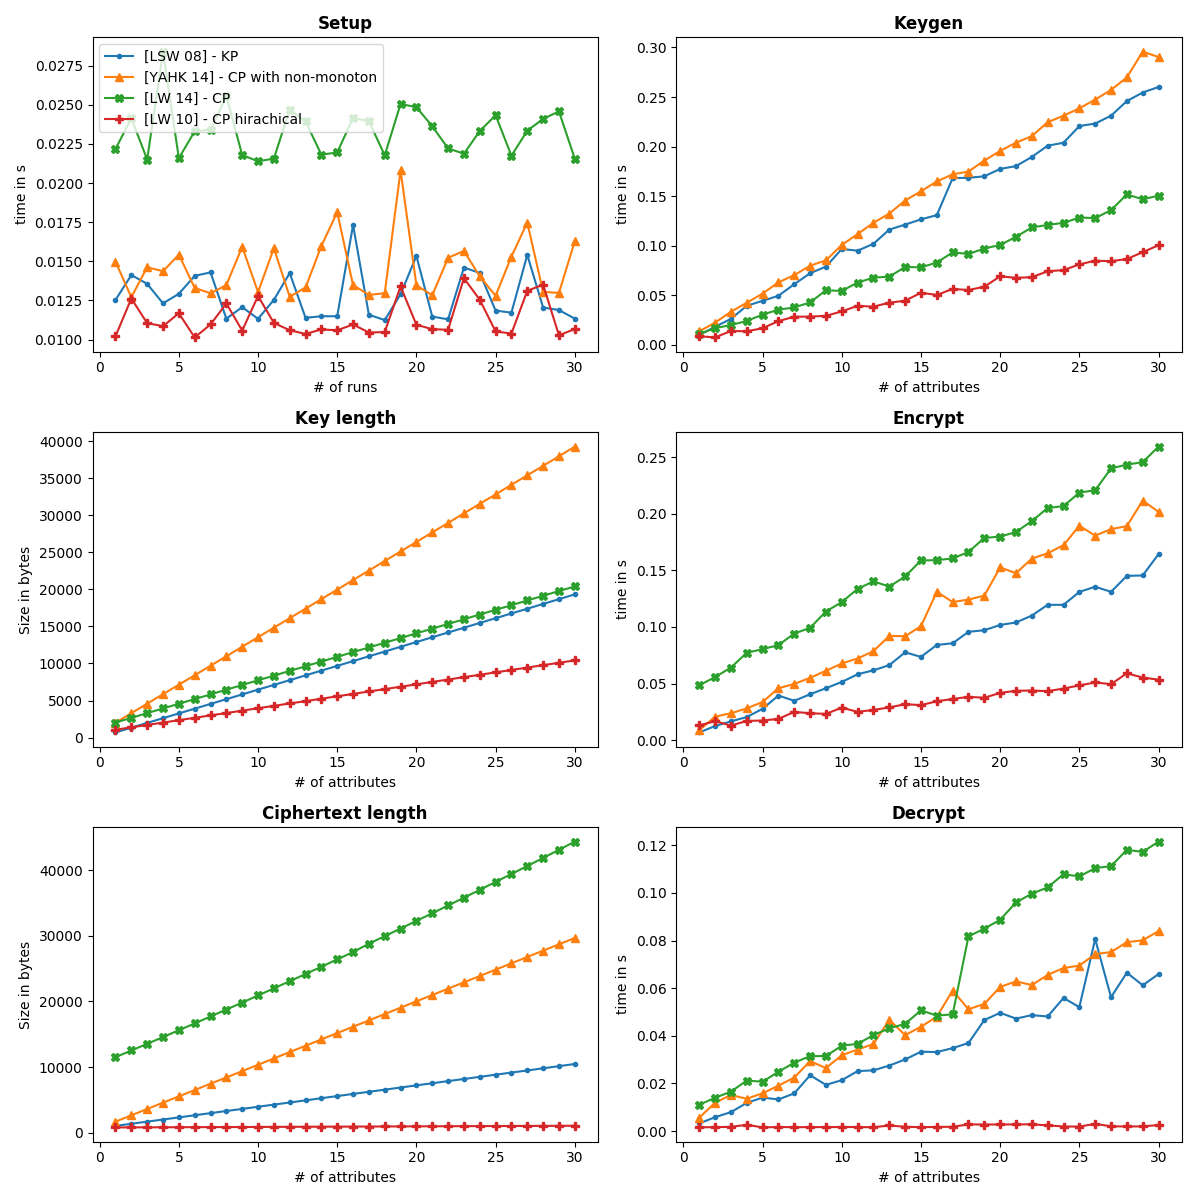
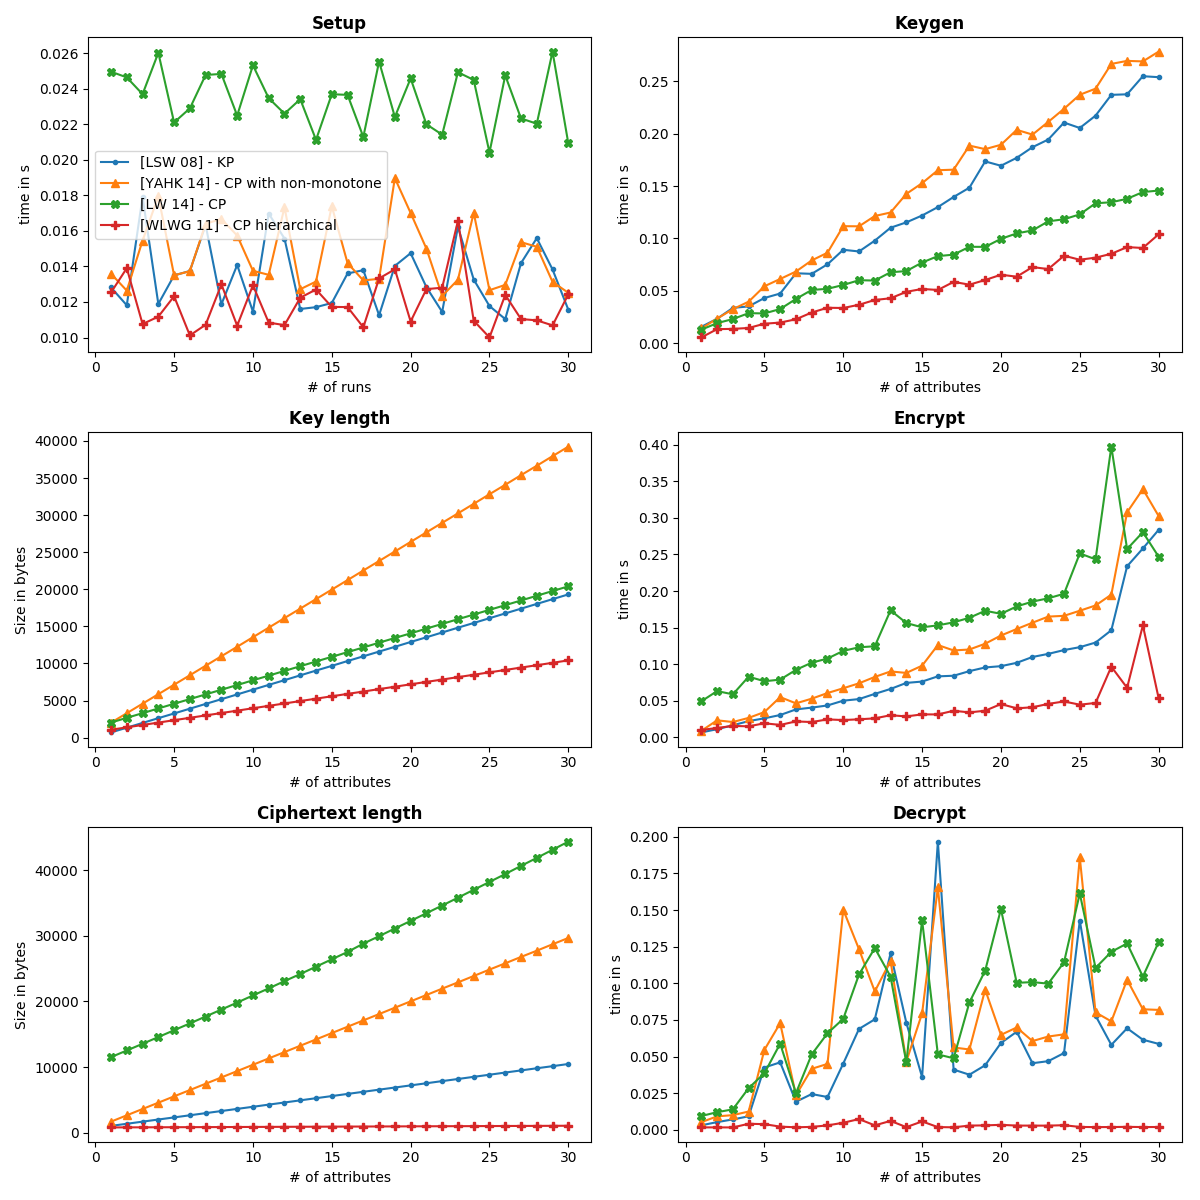
update

diff --git a/thesis/content/09-basic-attribute-based-encryption.tex b/thesis/content/09-basic-attribute-based-encryption.tex
@@ -28,7 +28,7 @@ The initial paper did leck some basic requirements that was improved by other wo
 
 This encryption scheme was ment as a broadcasting encryption scheme. Used by radio providers so that they can address any user that bought a paid membership to distribute premium content. However, since the policy was bound to the users key it is not possbile to address a ciphertext to a specific user group without knowing who exaclty persesses the right policy. Only the central authority, which issued the users privayt keys in the first place, would know who could decipher the encrypted text. This fact renders KP-ABE impractical for tha application in a cloud sharing scheme. User would simply don't know who are able to decrypter the cipher text. 
 
-The certainly very specific use case of KP-ABE probably led to the circumstances that not much paper using this technique exists. Even so that we could not find any paper satisfying all requirements previously specified. We found only paper that implemented direct and indirect recovation mechanism \cite{shi2015directly}. 
+The certainly very specific use case of KP-ABE probably led to the circumstances that not much paper using this technique exists. Even so that we could not find any paper satisfying all requirements previously specified. We found only paper that implemented direct revocation using negation of attributes \cite{lewko2010revocation}. This would in turn lead to the fact that users private key sizes would grow with each revoced attribute. 
 
 \subsection{CP-ABE}
 On the other side there is Cipher-text policy Attribute-Based Encryption (CP-ABE) \cite{bethencourt2007ciphertext}. CP-ABE assigns ciphertexts with a policy and user keys with attributes. This enables CP-ABE to be much more flexible and verbose in comparison to KP-ABE. The big adventages was (similar to KP-ABE) that the need for a central authentication server was obsulte. Each ciphertext could simple accessed by each user and only thouse who have the right attribute set present are able to decipher the ciphertext. 
@@ -42,16 +42,66 @@ While monotonic access structures can describe \textit{AND} or \textit{OR} gates
 
 Take for example Alice who wants is an intern in the Top Secret company. In monotinic access strcutre she would receive both attribute private keys from "Intern" and "working in Top Secret Company". Since than she would be able to decipher all content addressed to all employees at the Super Secret company. However, some content might be so confidential that interns shell not be able to access them. This exclusion would not be possible. With non-monotonic access structure an administrator may want to encrypt certain information with the policy "working in Top secret Company AND NOT intern".  
 
+While being an imported field in the boolean formular and fine-grand access control domain, non-monotonic access structures did not gain the same attention as CP or KP-ABE did. As an candidate which shell represent this ABE topic \cite{10.1007/978-3-642-54631-0_16} CP-ABE implementation will be used. With negation of attributes revocation becomes more or less trivial. Each attribute can be versioned and simply exlcuded on encryption. While this approach is not scalable over time it is simple enough to be implemented in some schemes.   
+
 \subsection{Hirachical ABE}
 Hirachical Attribute-Based encryption (HABE) takes the key delegation to the next level. It is sourly designed arround the idea that if a private key exist that have a certain access power, it is possible for the key holder to deletate a subset of this access power to new users. By nature follows a hirachical structure where each user could administrate a own subdomain. Here many use cases for cloud computing as well as cloud storage system emerged. \cite{Wang:2010:HAE:1866307.1866414}. While some works also take revocation into design a cural requirement is still missing. 
+
+Hirachical ABE is the predecessor of Multi-Authority Attribute based encryption. The differences can be summarized by the following points: In MA-ABE each user is assigned to a specific attribute authority. This must not be the case in HABE. HABE is tree-like orientated. Starting from the root node each following authority will have a subset of decryption power as its respectiv parent. 
+
+\cite{Wang:2010:HAE:1866307.1866414} formalized this approach using CP-ABE, which was later extended in \cite{wang2011hierarchical}. While implementing a revocation scheme, they depend on an access policy present in DNF, which might not always be possible without using negation. 
 
 A hirachical strcture and a delegation of decryption power would imply that the root node has global decryption power which is not desired \req{C4}. We want to design a system in which each domain is seperated is term of key generation from each other. That means that there is no top level domain which has global decryption power, rather we want to have a system where each subdomain creates its down keys and administrataes thier own attributes but that is still a part of a bigger system so able to interact with other domains.  
 \todo{Reformulate}
 
+
+
 \subsection{Comparison}
+To compare the selected representived of the previous section we choose the charm framework\footnote{\url{http://charm-crypto.io/}}. Here we can already find implementations for the sutable KP-ABE candidate \cite{lewko2010revocation} and for non-monotonic CP-ABE \cite{10.1007/978-3-642-54631-0_16}. The other two schemes such as CP-ABE \cite{liu2016practical} and \cite{wang2011hierarchical} where implemented by us in a github frok of the charm repo\footnote{\url{https://github.com/Anroc/charm}}. 
+
+\begin{table*}[!ht]
+\centering
+\begin{tabular}{l 					| l 				| l 				| l 				| l}
+									& \textbf{LSW 08}	& \textbf{YAHK 14}	& \textbf{LW 14}	& \textbf{WLWG 11} 	\\
+\req{Scheme}						& KP				& Non-Monotone CP 	& CP 				& Hirachical CP		\\ 
+\req{Security scheme}				& Biliniear maps 	& Binilnear maps 	& Biliniear maps 	& Biliniear maps 	\\
+\req{Expression of access policy}	& LSSS				& LSSS matrix 		& LSSS matrix 		& DNF 				\\ 
+\end{tabular}
+\caption{Scheme description. }
+\label{tab:comparison_baic_abe_overview}
+\end{table*}
+\begin{table*}[!ht]
+\centering
+\begin{tabular}{l 	| l					| l 				| l 				| l}
+					& \textbf{LSW 08}	& \textbf{YAHK 14}	& \textbf{LW 14}	& \textbf{WLWG 11} 	\\
+\req{C1}			& Yes				& Yes 				& Yes 				& Yes 				\\
+\req{C2}			& No				& No 				& No 				& Yes 				\\ 
+\req{C3}			& No				& No 				& No 				& No 				\\ 
+\req{C4}			& No				& No 				& No 				& No 				\\ 
+\req{C5}			& Yes				& Yes 				& Yes 				& Yes 				\\ 
+\req{C6}			& - 				& - 				& -					& Yes				\\
+\req{C7}			& -					& - 				& - 				& No 				\\
+\req{C8}			& Yes				& Yes				& Yes				& Yes				\\
+\req{O1}			& No 				& No 				& Yes 				& No 				\\
+\req{O2}			& Yes+ 				& Yes+				& Yes				& Yes-				\\
+\end{tabular}
+\caption{}
+\label{tab:basic_abe_comparisons}
+\end{table*}
+
+In table \ref{tab:comparison_baic_abe_overview} the different scheme techniques are listed.  And in Table \ref{tab:basic_abe_comparisons} this schemes are compared to the requirements of section \ref{sec:requirements}. 
+
+From table \ref{tab:basic_abe_comparisons} it is clear that no scheme fully fulfill all the requirements. However, they reveal a good indicator where we should look next. WLWG 11 clearly makes the race here satisfying 6 of 10 of the requirements. 
+
+\req{C6} and \req{C7} could not be sutisfied by LSW08, YAHK14 or LW14 since they are not designed to support multible authorities. 
+\question{Should I respect MA-ABE also here?}
+Lets have a look at \req{O2}. LSW08 and YAHK14 both supports fine grant access controll by using a LSSS access structure. Also both implement non-monotonic access structes which give them the extra plus. LW14, on the other hand, does not support negation of attributes, but support an arbirary access strcture like LSW08 and YAHK14. WLWG11, however, does only support access strcutures in DNF form which makes this scheme somehow restriced in expressivness. 
+
 \begin{figure*}[!ht]
 \centering
     \includegraphics[width=1\linewidth]{img/basic_abe_comparisons.png}
     \caption{Performance and scalability comparison between the chosen schemes.}
     \label{fig:basic_abe_comparison}
 \end{figure*}
+
+
